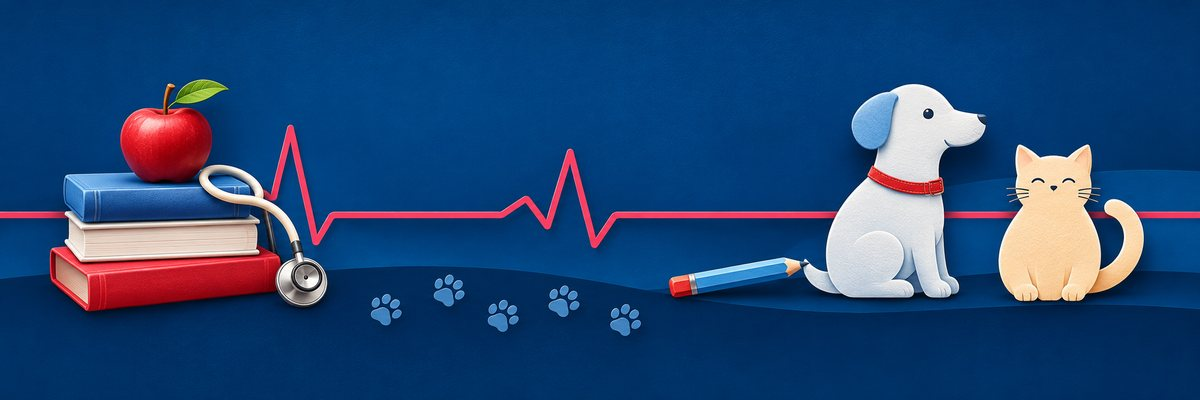
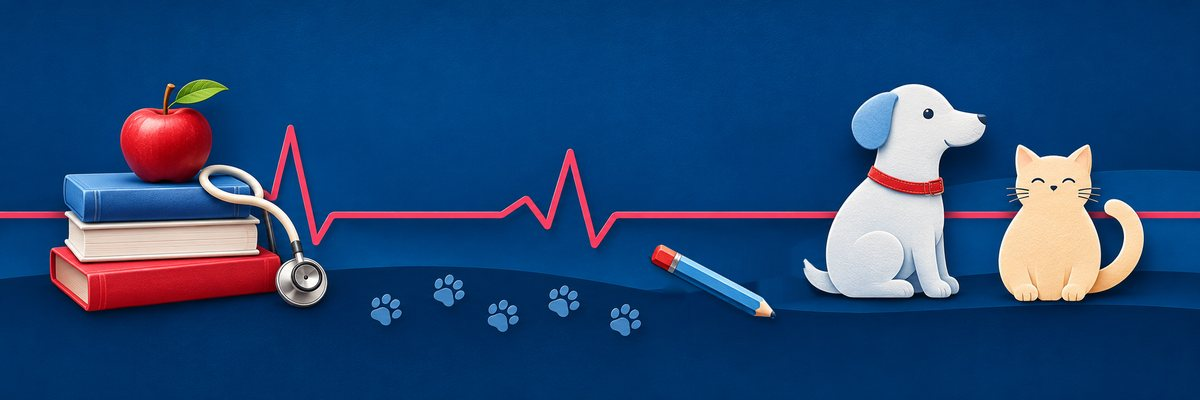
Turn the hero pencil to point down toward the bottom right
The pencil now angles away from the dog instead of pointing at its tail.

Claude-Session: https://claude.ai/code/session_01SwRag9Y3pCRxNbMX8qfMkM

Changed region(s): [[0.5242, 0.6, 0.6783, 0.81]]

diff --git a/index.html b/index.html
@@ -26,7 +26,7 @@
     <p class="hero-sub"><a href="#how">New here? How this workbook works</a></p>
   </div>
   <div class="hero-art">
-    <img src="images/hero-banner.jpg" srcset="images/hero-banner-1200.jpg 1200w, images/hero-banner.jpg 2172w" sizes="(max-width: 1500px) 100vw, 1500px" width="2172" height="724" alt="">
+    <img src="images/hero-banner.jpg?v=2" srcset="images/hero-banner-1200.jpg?v=2 1200w, images/hero-banner.jpg?v=2 2172w" sizes="(max-width: 1500px) 100vw, 1500px" width="2172" height="724" alt="">
   </div>
 </div>
 
